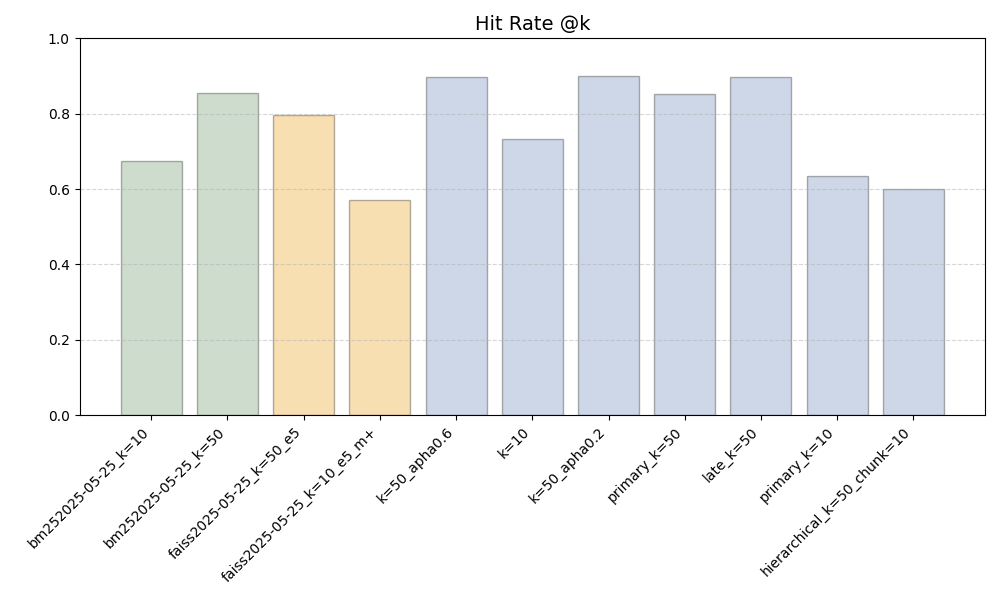
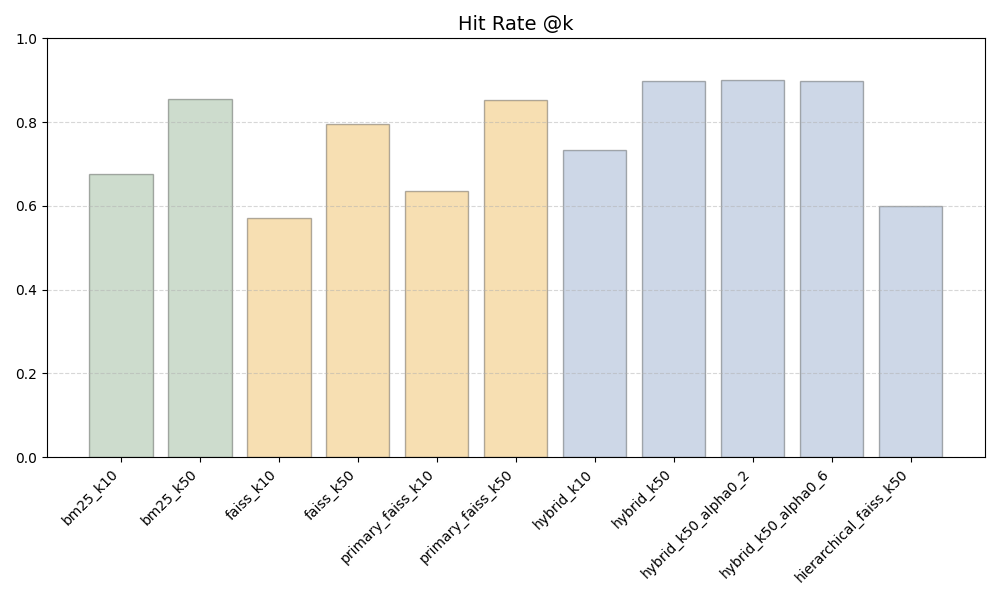
rename logs and plots

diff --git a/tools/arqa/evaluation/plot_evaluation_results.py b/tools/arqa/evaluation/plot_evaluation_results.py
@@ -42,7 +42,9 @@ def load_log_metrics(log_file: str) -> Dict[str, str]:
         data = json.load(f)
 
     summary = data.get("summary", {})
-    run_name = summary.get("run_name", os.path.splitext(os.path.basename(log_file))[0])
+
+    # Force run_name to always be the json filename (without extension)
+    run_name = os.path.splitext(os.path.basename(log_file))[0]
 
     # Determine retriever method from path or run_name
     if "bm25" in log_file or "bm25" in run_name.lower():
@@ -54,18 +56,15 @@ def load_log_metrics(log_file: str) -> Dict[str, str]:
     else:
         method = "faiss"
 
-    # Attempt to extract a more readable name
-    md_name = run_name.replace("_eval_", "").replace("bm25_", "").replace("faiss_", "").replace("hybrid_", "")
-    md_name = md_name.replace("primary_faiss_", "").replace(".md", "").replace(".json", "").replace("k", "k=")
-
     return {
-        "run_name": md_name,
+        "run_name": run_name,
         "method": method,
         "normalized_precision": summary.get("mean_normalized_precision@k", 0),
         "recall": summary.get("mean_recall@k", 0),
         "hit_rate": summary.get("mean_hit@k", 0),
         "mrr": summary.get("mean_mrr", 0),
     }
+
 
 
 def collect_all_metrics(directories: List[str]) -> pd.DataFrame:
@@ -80,7 +79,7 @@ def collect_all_metrics(directories: List[str]) -> pd.DataFrame:
 
 
 def plot_unified_metrics(df: pd.DataFrame, output_path: str) -> None:
-    """Create a unified 4-subplot figure comparing all metrics."""
+    """Create a unified 4-subplot figure comparing all metrics with custom order."""
     # Color palette similar to example provided
     palette = {
         "bm25": "#5B8C5A",    # green tone
@@ -96,12 +95,30 @@ def plot_unified_metrics(df: pd.DataFrame, output_path: str) -> None:
         ("mrr", "MRR"),
     ]
 
-    # Sort dataframe for consistent ordering
-    df_sorted = df.sort_values("method")
+    # Manual order
+    order = [
+        "bm25_k10",
+        "bm25_k50",
+        "faiss_k10",
+        "faiss_k50",
+        "primary_faiss_k10",
+        "primary_faiss_k50",
+        "hybrid_k10",
+        "hybrid_k50",
+        "hybrid_k50_alpha0_2",
+        "hybrid_k50_alpha0_6",
+        "hierarchical_faiss_k50",
+    ]
 
+    # Apply order as categorical
+    df["run_name"] = pd.Categorical(df["run_name"], categories=order, ordered=True)
+    df_sorted = df.sort_values("run_name")
+
+    # Prepare labels and colors
     x_labels = df_sorted["run_name"].tolist()
     color_list = [palette.get(m, "gray") for m in df_sorted["method"]]
 
+    # Create figure
     fig, axes = plt.subplots(2, 2, figsize=(14, 8))
     axes = axes.flatten()
 
@@ -132,7 +149,24 @@ def plot_individual_metric(df: pd.DataFrame, metric: str, title: str, output_pat
         "hybrid": "#5B7DB1",
     }
 
-    df_sorted = df.sort_values("method")
+    # Manual order
+    order = [
+        "bm25_k10",
+        "bm25_k50",
+        "faiss_k10",
+        "faiss_k50",
+        "primary_faiss_k10",
+        "primary_faiss_k50",
+        "hybrid_k10",
+        "hybrid_k50",
+        "hybrid_k50_alpha0_2",
+        "hybrid_k50_alpha0_6",
+        "hierarchical_faiss_k50",
+    ]
+
+    # Apply order as categorical
+    df["run_name"] = pd.Categorical(df["run_name"], categories=order, ordered=True)
+    df_sorted = df.sort_values("run_name")
 
     x_labels = df_sorted["run_name"].tolist()
     color_list = [palette.get(m, "gray") for m in df_sorted["method"]]
@@ -152,6 +186,7 @@ def plot_individual_metric(df: pd.DataFrame, metric: str, title: str, output_pat
     plt.tight_layout()
     plt.savefig(output_path)
     plt.close()
+
 
 
 if __name__ == "__main__":
